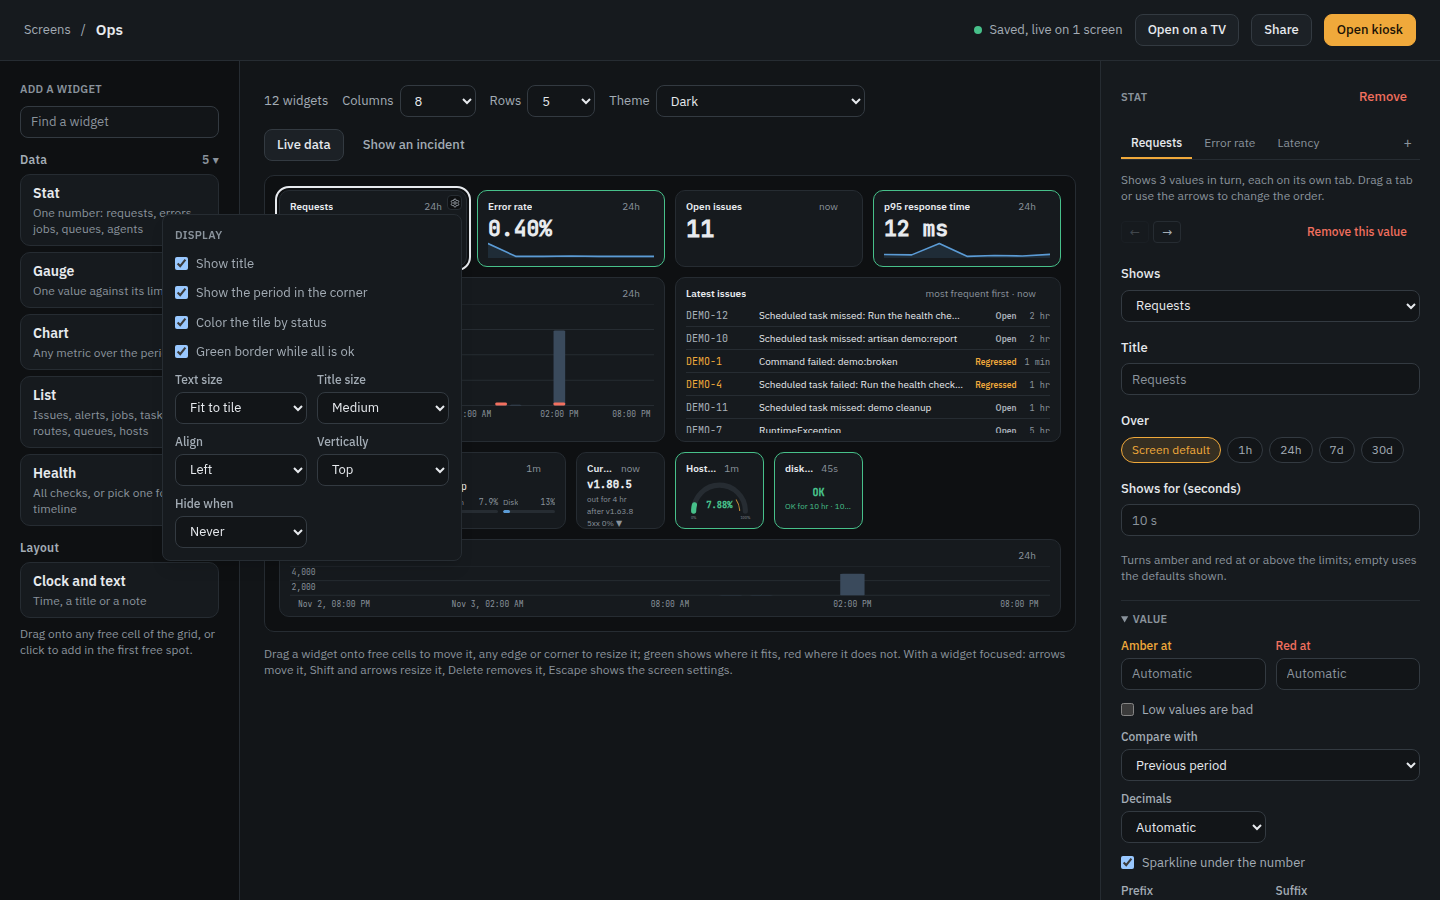
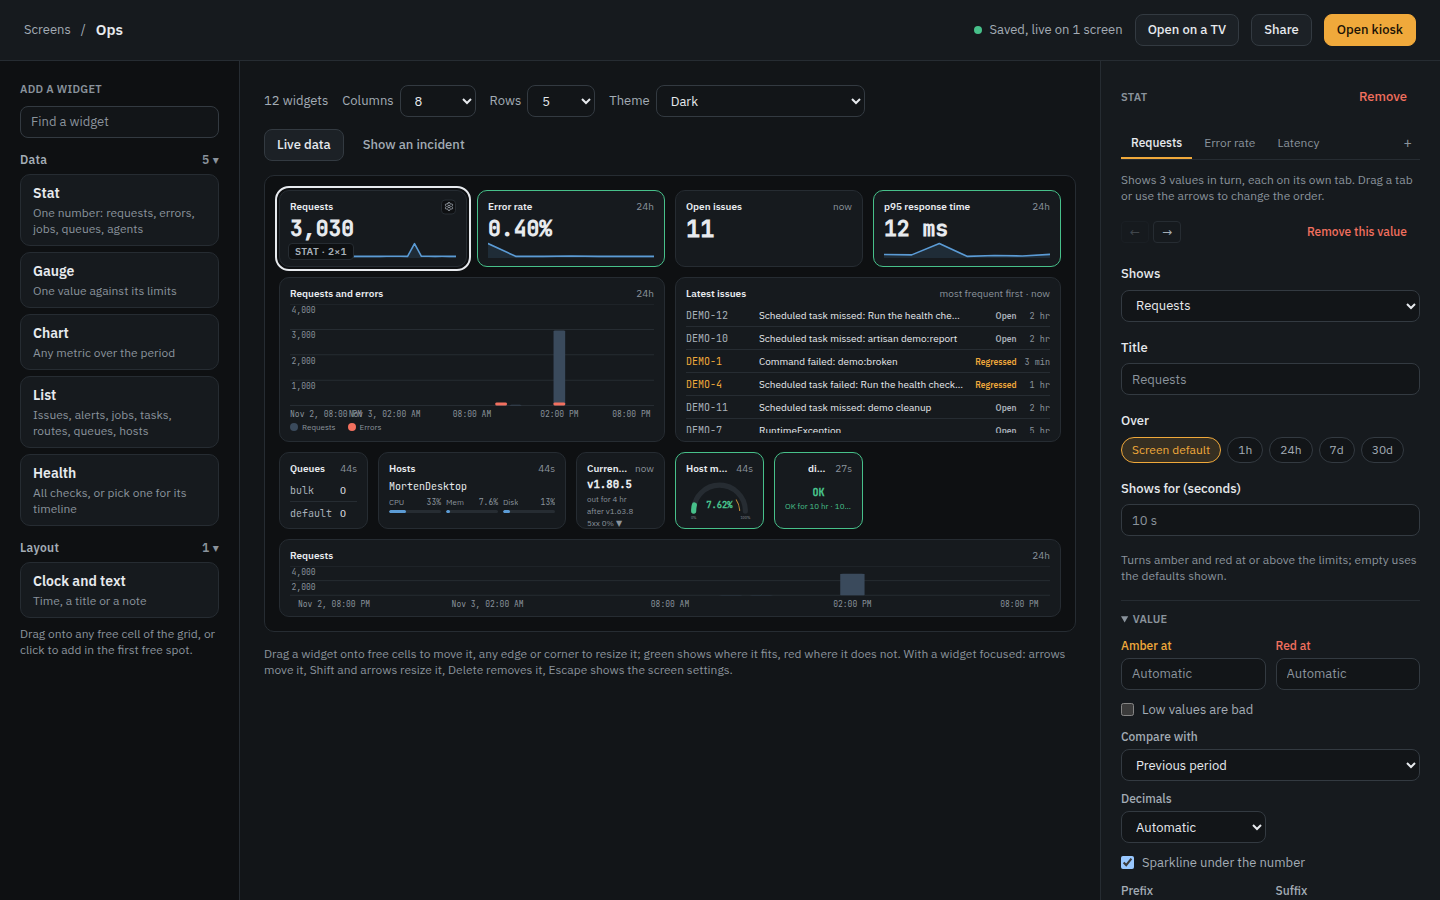
Pin a tile's corner label to its top right corner
The sort hint, period or age keeps to the top right in its own column; a
centered title stays centered with an invisible twin of the label on the
left, and a long title truncates before the label. In the designer the
gear cross-fades in place of the label, so showing it moves nothing.

diff --git a/resources/js/components/lj/screen/widgets.tsx b/resources/js/components/lj/screen/widgets.tsx
@@ -404,6 +404,32 @@ export function WidgetTile({
             status !== 'degraded') ||
         (hideWhen === 'empty' && empty);
     const transition = opt<string>('transition') ?? 'fade';
+    // The top right label: a list's order, then the period or how old the report is.
+    const cornerText = [
+        widget.type === 'list' && sourceId
+            ? orKey(
+                  t,
+                  `screens.list.sort_hint.${sourceId}.${opt<string>('sort') ?? 'default'}`,
+                  t(`screens.list.sort_hint.${sourceId}.default`),
+              )
+            : '',
+        // What time it covers, so a 1 h tile next to a 24 h one is not misread.
+        opt<boolean>('show_period') !== false &&
+        typeof payload?.period === 'string'
+            ? // The latest report says how old it is; a period says how long.
+              typeof payload.as_of === 'string'
+                ? shortAge(payload.as_of, now)
+                : t(`screens.period_short.${payload.period}`)
+            : '',
+    ]
+        .filter(Boolean)
+        .join(' · ');
+    const cornerClass = cn(
+        'lj-tile-small whitespace-nowrap',
+        // Room for the designer's gear, whatever the label says.
+        corner && 'min-w-[1.5em] text-right',
+    );
+    const cornerStyle = { fontSize: 'var(--lj-cell-font)' };
     // How long the value has left: frozen (none) while it holds the tile or a tab pins it.
     const progress =
         pinned === undefined &&
@@ -470,8 +496,8 @@ export function WidgetTile({
             }}
         >
             {decoration}
-            {corner && (
-                // The same corner on every tile; the period label makes room while it shows.
+            {corner && !(showTitle && widget.type !== 'empty' && title) && (
+                // Without a title row the gear has the corner to itself.
                 <span
                     className="absolute top-1 right-1 z-20 flex"
                     style={{ fontSize: 'var(--lj-cell-font)' }}
@@ -480,14 +506,25 @@ export function WidgetTile({
                 </span>
             )}
             {showTitle && widget.type !== 'empty' && title && (
+                // The label keeps to the top right corner: a grid with it on the right and
+                // an invisible twin on the left keeps a centered title centered on the tile.
                 <div
                     className={cn(
-                        'flex items-baseline gap-[0.6em]',
+                        'grid items-baseline gap-[0.6em]',
                         align === 'center'
-                            ? 'justify-center'
-                            : 'justify-between',
+                            ? 'grid-cols-[auto_minmax(0,1fr)_auto]'
+                            : 'grid-cols-[minmax(0,1fr)_auto]',
                     )}
                 >
+                    {align === 'center' && (
+                        <span
+                            aria-hidden="true"
+                            className={cn(cornerClass, 'invisible')}
+                            style={cornerStyle}
+                        >
+                            {cornerText}
+                        </span>
+                    )}
                     <span
                         className="lj-tile-title min-w-0 truncate"
                         style={{
@@ -498,36 +535,21 @@ export function WidgetTile({
                         {title}
                     </span>
                     <span
-                        className={cn(
-                            'lj-tile-small flex-none whitespace-nowrap',
-                            corner && 'lj-corner-label',
-                        )}
+                        className={cn(cornerClass, 'relative')}
                         // The same size on every tile, whatever its text or title size.
-                        style={{ fontSize: 'var(--lj-cell-font)' }}
+                        style={cornerStyle}
                     >
-                        {[
-                            widget.type === 'list' && sourceId
-                                ? orKey(
-                                      t,
-                                      `screens.list.sort_hint.${sourceId}.${opt<string>('sort') ?? 'default'}`,
-                                      t(
-                                          `screens.list.sort_hint.${sourceId}.default`,
-                                      ),
-                                  )
-                                : '',
-                            // What time it covers, so a 1 h tile next to a 24 h one is not misread.
-                            opt<boolean>('show_period') !== false &&
-                            typeof payload?.period === 'string'
-                                ? // The latest report says how old it is; a period says how long.
-                                  typeof payload.as_of === 'string'
-                                    ? shortAge(payload.as_of, now)
-                                    : t(
-                                          `screens.period_short.${payload.period}`,
-                                      )
-                                : '',
-                        ]
-                            .filter(Boolean)
-                            .join(' · ')}
+                        <span
+                            className={corner ? 'lj-corner-label' : undefined}
+                        >
+                            {cornerText}
+                        </span>
+                        {/* The designer's gear takes the label's place while it shows. */}
+                        {corner && (
+                            <span className="absolute top-1/2 right-0 flex -translate-y-1/2">
+                                {corner}
+                            </span>
+                        )}
                     </span>
                 </div>
             )}

diff --git a/resources/css/screen.css b/resources/css/screen.css
@@ -169,10 +169,17 @@
     opacity: 1;
 }
 
-/* The designer's gear sits in the corner; the period label keeps out of its way on
-   every designer tile, so nothing moves when it shows. Hidden, it takes no clicks. */
+/* The designer's gear takes the period label's place while it shows; nothing moves.
+   Hidden, it takes no clicks. */
 .lj-tile .lj-corner-label {
-    padding-right: 1.4em;
+    transition: opacity 150ms;
+}
+
+.lj-tile:hover .lj-corner-label,
+.lj-tile:focus-visible .lj-corner-label,
+.lj-tile:has(:focus-visible) .lj-corner-label,
+.lj-tile[data-selected='true'] .lj-corner-label {
+    opacity: 0;
 }
 
 .lj-tile .lj-gear {

diff --git a/docs/screens.md b/docs/screens.md
@@ -159,7 +159,7 @@ Each widget's settings are grouped in sections that open and close:
   queue after a route) does not take the widget's filter. A rotated value's scope is stored in its `rotate` entry, such as
   `{"source": "queue_size", "scope": {"filter": "bulk"}}`.
 - **Display**: not in the inspector but behind the gear in the tile's top right corner,
-  next to the period, which shows while the pointer is on the tile, it has focus or it is
+  in place of the period label, which shows while the pointer is on the tile, it has focus or it is
   selected (never on the TV). The gear selects the widget and opens its display settings
   in a small panel beside it; Escape or a click elsewhere closes it, and changes save like
   any other. They are whether the title shows and how big, whether the tile is colored by
